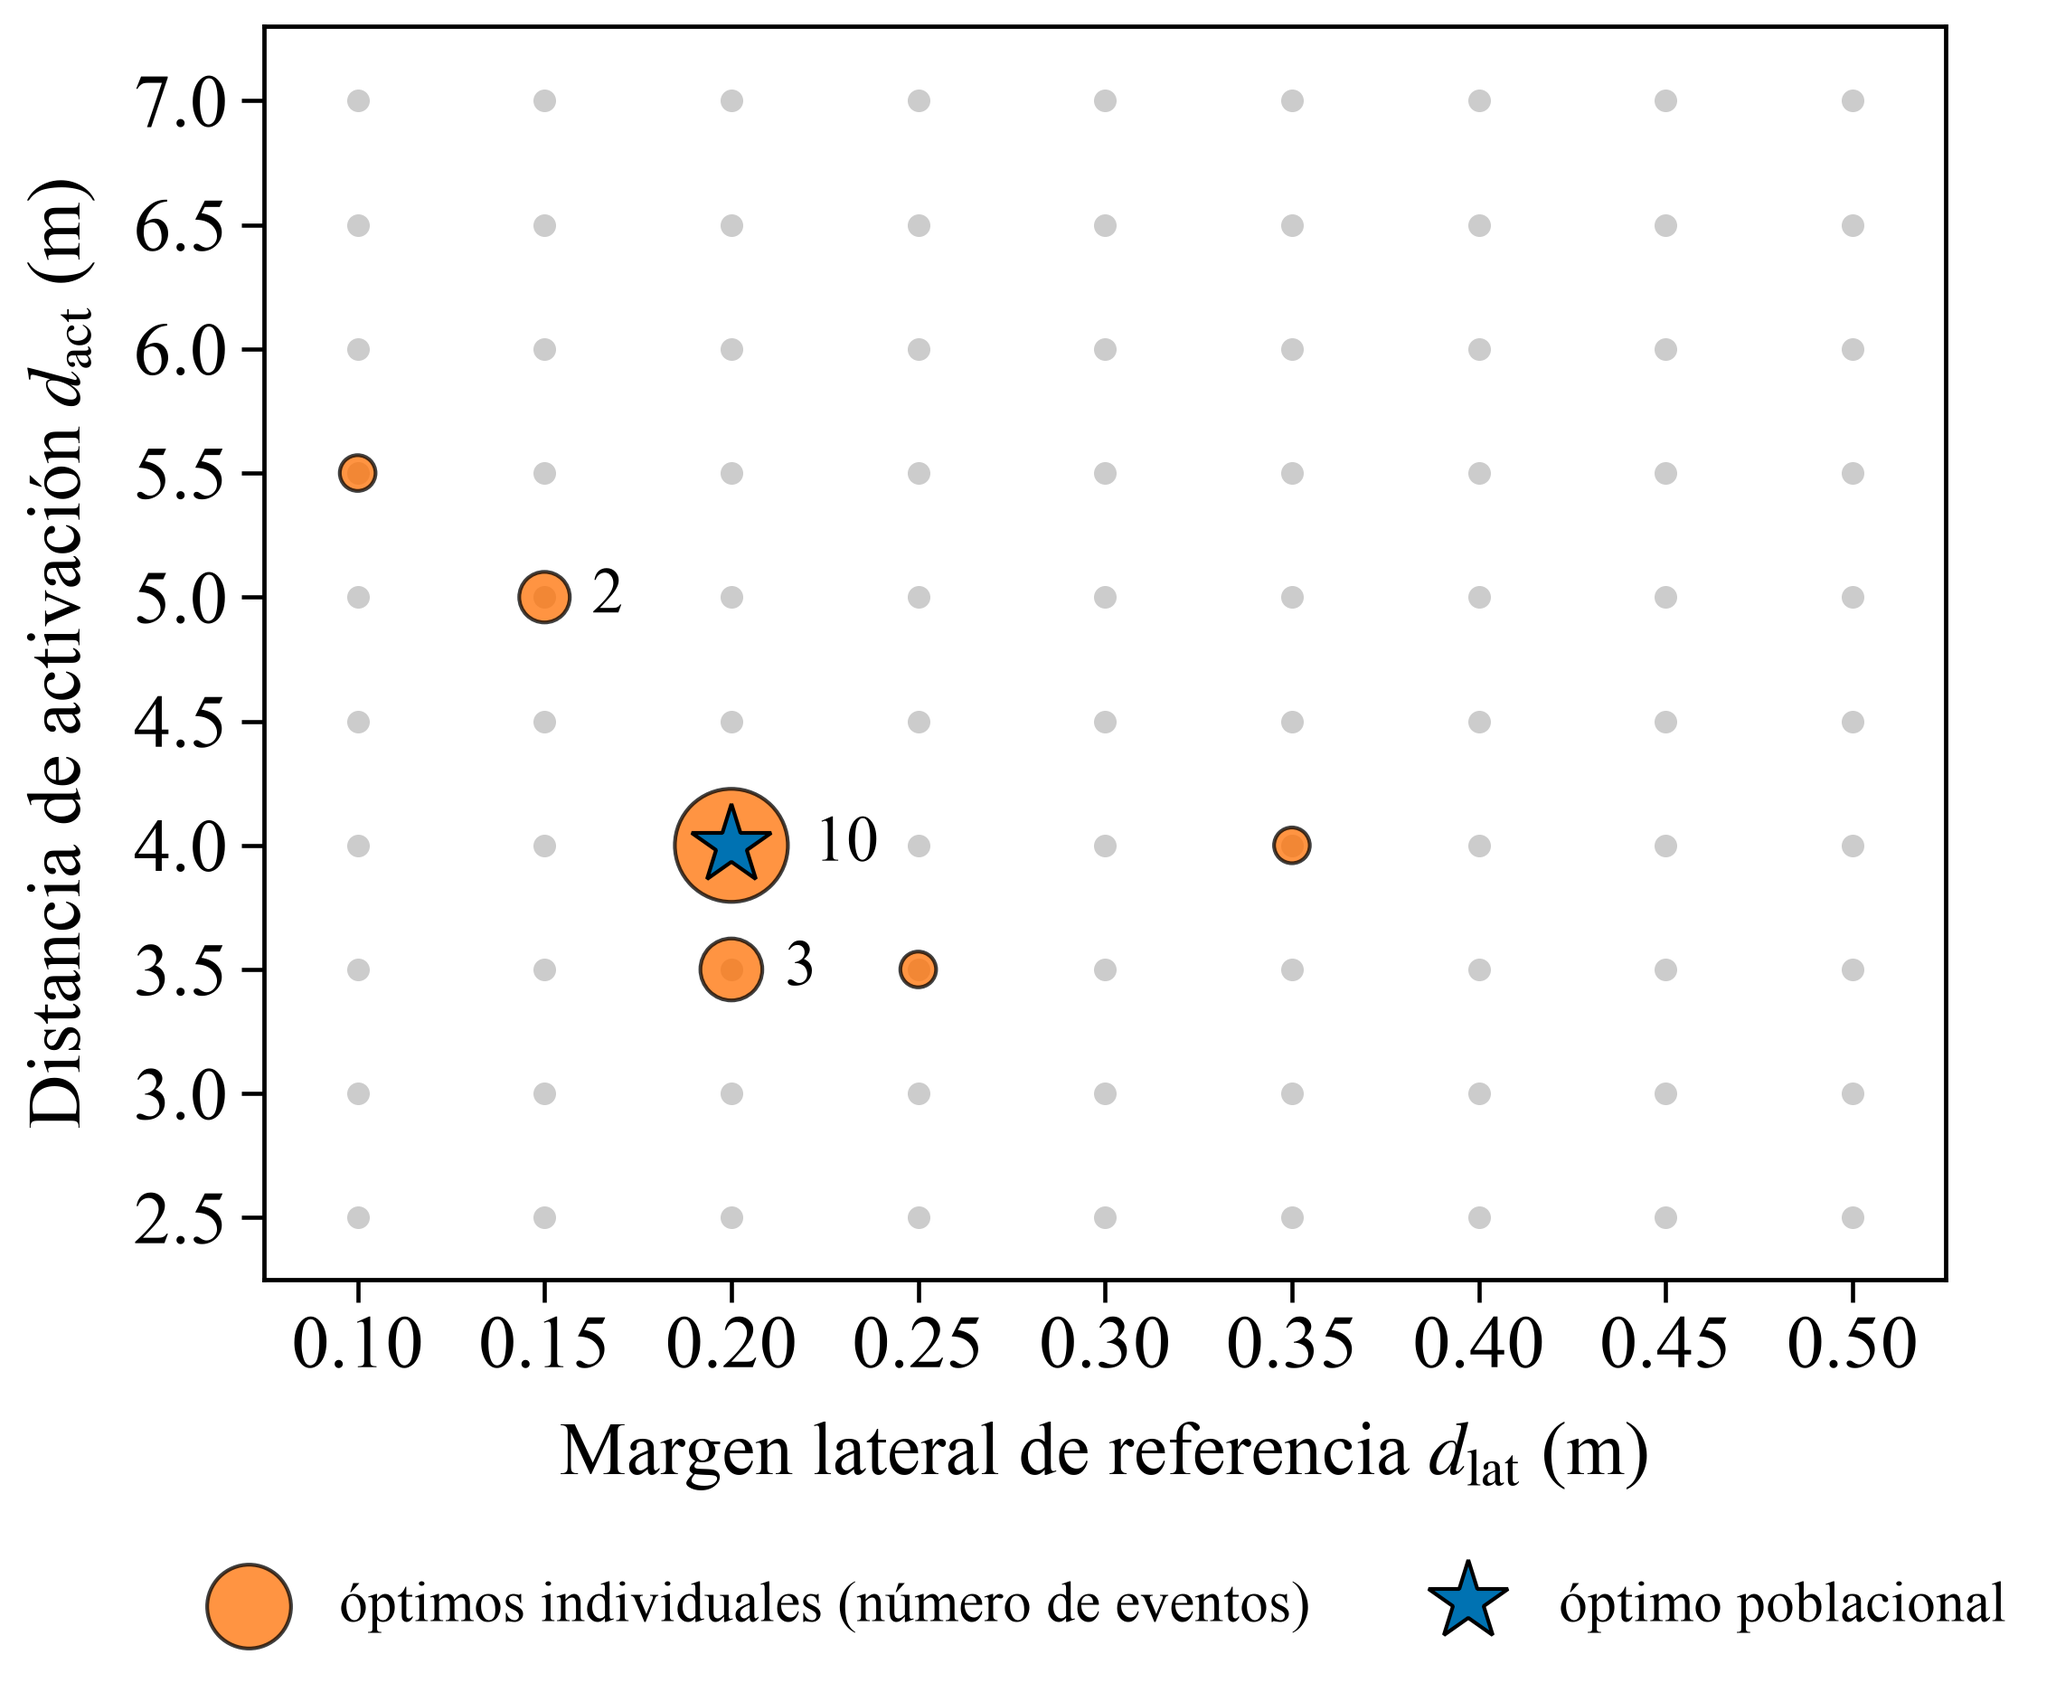
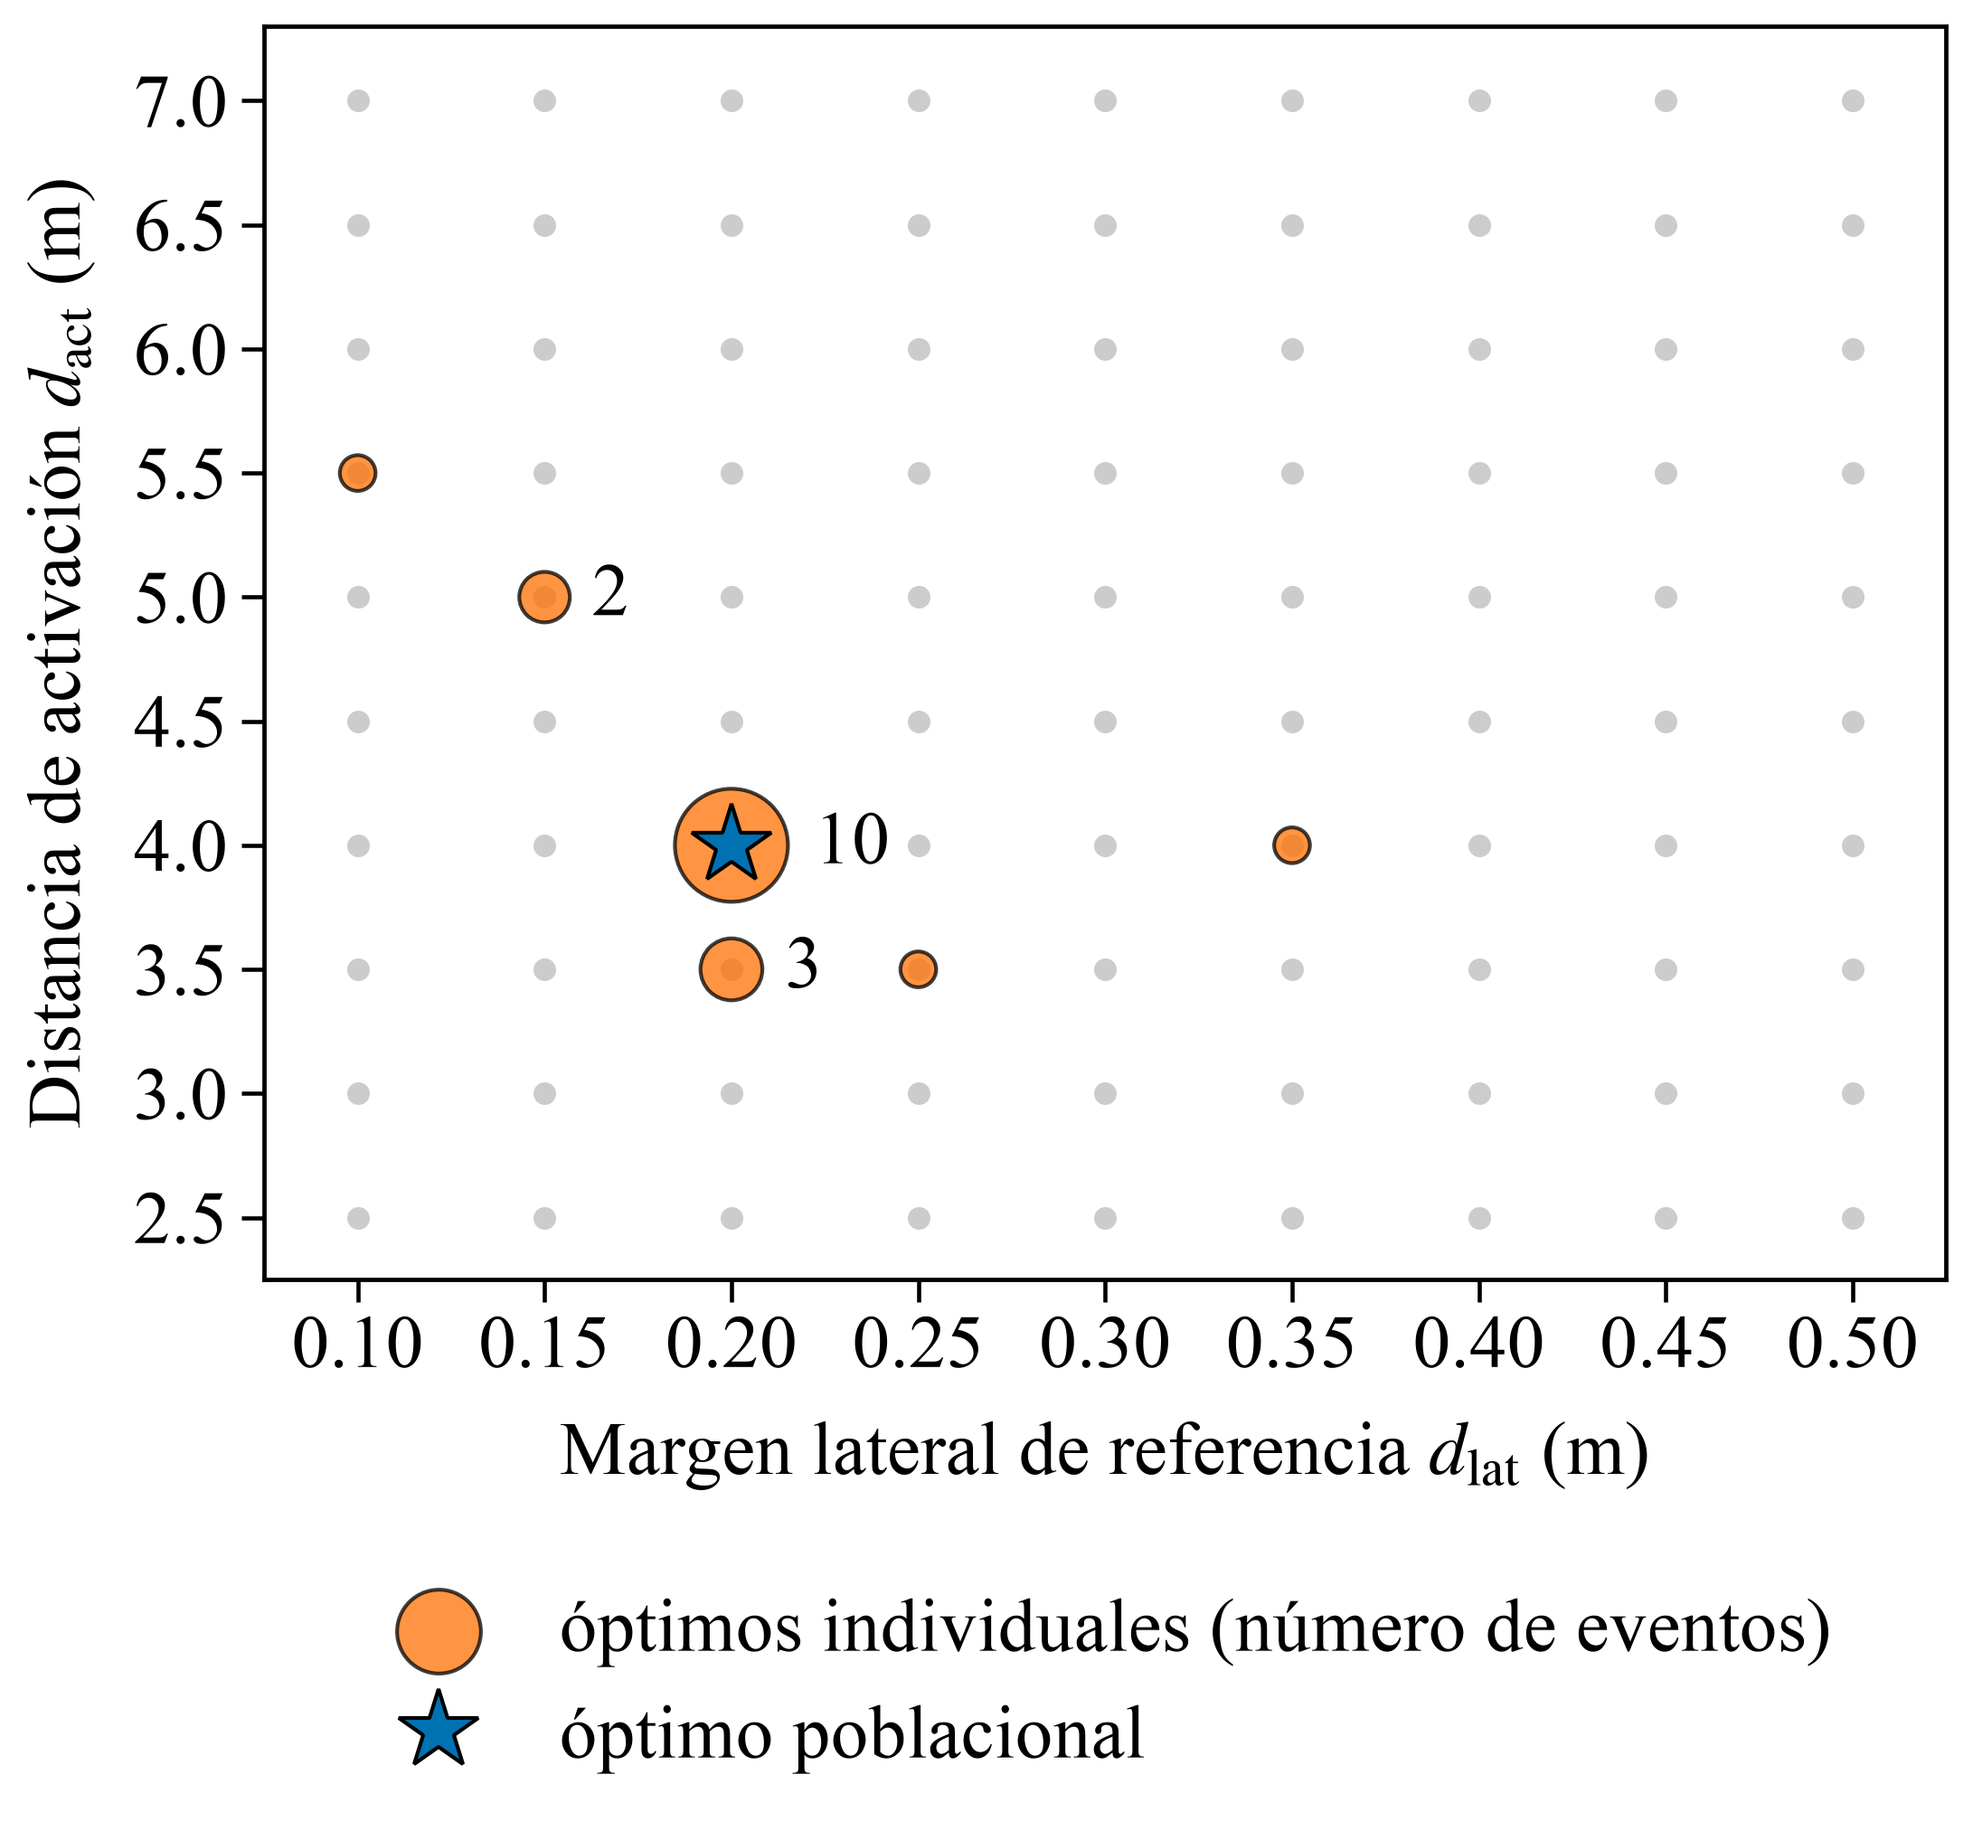
validacion cruzada better layout

diff --git a/scripts/plot_calibration.py b/scripts/plot_calibration.py
@@ -26,7 +26,6 @@ from matplotlib.colors import LogNorm  # noqa: E402
 from matplotlib.ticker import ScalarFormatter  # noqa: E402
 
 sys.path.insert(0, str(Path(__file__).resolve().parent / "lib"))
-from calib import format_pm  # noqa: E402
 from plot_style import BLUE, D_ACT_COLOR, D_LAT_COLOR, VERMILLION, apply_academic_style, style_axes  # noqa: E402
 
 REPO = Path(__file__).resolve().parents[1]
@@ -142,7 +141,7 @@ def plot_individual(metric: int, indir: Path, outdir: Path) -> None:
         if c > 1:
             radius_pt = np.sqrt(90 * c / np.pi)
             ax.annotate(str(c), (x, y), textcoords="offset points", xytext=(radius_pt + 5, 0), ha="left",
-                        va="center", fontsize=17, zorder=4)
+                        va="center", fontsize=20, zorder=4)
     ax.plot(r_opt, a_opt, marker="*", markersize=22, color=BLUE, markeredgecolor="black", linestyle="none",
             label="óptimo poblacional", zorder=3)
     ax.set_xticks(np.unique(grid[:, 0]))
@@ -152,7 +151,7 @@ def plot_individual(metric: int, indir: Path, outdir: Path) -> None:
     ax.set_xlim(grid[:, 0].min() - pad_x, grid[:, 0].max() + pad_x)
     ax.set_ylim(grid[:, 1].min() - pad_y, grid[:, 1].max() + 1.2 * pad_y)
     style_axes(ax, XLABEL, YLABEL)
-    ax.legend(loc="upper center", bbox_to_anchor=(0.5, -0.2), ncol=2, fontsize=15, frameon=False)
+    ax.legend(loc="upper center", bbox_to_anchor=(0.5, -0.2), ncol=1, fontsize=20, frameon=False)  # 20 pt: guía 1.8
     save(fig, outdir / f"E{metric}_optimos_individuales.png")
 
     # per-event errors, population vs individual parameters
@@ -164,9 +163,9 @@ def plot_individual(metric: int, indir: Path, outdir: Path) -> None:
     ax.axhline(E_pop.mean(), color=BLUE, linestyle="--", linewidth=1.5, label="promedio poblacional")
     ax.axhline(E_ind.mean(), color=VERMILLION, linestyle="--", linewidth=1.5, label="promedio individual")
     ax.set_xticks(x)
-    ax.set_xticklabels([str(p) for p in pruebas], fontsize=15)
+    ax.set_xticklabels([str(p) for p in pruebas])
     style_axes(ax, "Evento", elabel(metric, mean=False))
-    ax.legend(loc="upper center", bbox_to_anchor=(0.5, -0.2), ncol=2, fontsize=15, frameon=False)
+    ax.legend(loc="upper center", bbox_to_anchor=(0.5, -0.2), ncol=2, fontsize=20, frameon=False)  # 20 pt: guía 1.8
     save(fig, outdir / f"E{metric}_error_por_evento.png")
 
 
@@ -179,30 +178,28 @@ def plot_crossval(metric: int, indir: Path, outdir: Path) -> None:
     E_tr = np.array([float(r[3]) for r in rows])
     E_va = np.array([float(r[4]) for r in rows])
 
-    # one point per set: mean over the partitions, error bar = sample sd between partitions, value written beside it.
+    # one point per set: mean over the partitions, error bar = sample sd between partitions; the values are written
+    # beside the figure on the slide, with their units (guía 1.7, 1.9).
     # Points, not bars: a bar has to start at zero and then the spread, which is the result, takes a sliver of the axis
     # (the partition index carries no information, so it is not an axis)
     order = int(np.floor(np.log10(E_pop)))  # same power of ten on the axis and in the written values
     order = order if order < -1 else 0
-    fig, ax = plt.subplots(figsize=(8, 6))
+    fig, ax = plt.subplots(figsize=(6.5, 5.6))  # small canvas: the 20 pt text stays readable at slide size (guía 1.8)
     for x, vals, color in ((0, E_tr, BLUE), (1, E_va, VERMILLION)):
         mean, sd = vals.mean(), vals.std(ddof=1)
         ax.errorbar(x, mean, yerr=sd, fmt="o", markersize=13, color=color, ecolor=color, capsize=9, capthick=2.2,
                     elinewidth=2.2, zorder=3)
-        value, error = format_pm(mean / 10**order, sd / 10**order)
-        ax.annotate(rf"${value} \pm {error}$", (x, mean), textcoords="offset points", xytext=(16, 0), ha="left",
-                    va="center", fontsize=18, zorder=4, bbox=dict(facecolor="white", edgecolor="none", pad=2.5))
     ax.axhline(E_pop, color="black", linestyle=":", linewidth=1.8, label="calibración poblacional (18 eventos)", zorder=1)
     ax.set_xticks([0, 1])
     ax.set_xticklabels(["Entrenamiento\n(13 eventos)", "Validación\n(5 eventos)"])
-    ax.set_xlim(-0.5, 1.75)
+    ax.set_xlim(-0.6, 1.6)
     ax.margins(y=0.12)
     if order:
         ax.ticklabel_format(axis="y", style="sci", scilimits=(order, order))
     else:
         ax.ticklabel_format(axis="y", style="plain")
-    style_axes(ax, "", rf"$\langle E^{{({metric})}}\rangle$ (m$^2$)")
-    ax.legend(loc="upper center", bbox_to_anchor=(0.5, -0.2), fontsize=15, ncol=2, frameon=False)
+    style_axes(ax, "Conjunto de eventos", f"Error medio, métrica {metric} (m$^2$)")  # words, not symbols (guía 1.8)
+    ax.legend(loc="upper center", bbox_to_anchor=(0.5, -0.32), fontsize=20, ncol=1, frameon=False)
     save(fig, outdir / f"E{metric}_validacion_cruzada.png")
 
 

diff --git a/docs/presentation/secciones/anexo.tex b/docs/presentation/secciones/anexo.tex
@@ -20,3 +20,26 @@
     \vv{e}_0 = \frac{\vv{x}^{\,temp}_i - \vv{r}_i}{|\vv{x}^{\,temp}_i - \vv{r}_i|}
   \]
 \end{frame}
+
+\begin{frame}{Anexo}
+  \framesubtitle{Validación cruzada: valores de error medio}
+  \centering
+  \renewcommand{\arraystretch}{1.5}
+  \begin{tabular}{lccc}
+    \hline
+    Métrica & Poblacional (m$^2$) & Entrenamiento (m$^2$) & Validación (m$^2$) \\
+    \hline
+    1: iguales tiempos & $0.384$ & $0.39 \pm 0.04$ & $0.4 \pm 0.1$ \\
+    2: punto más cercano & $2.05\ten{-2}$ & $(2.0 \pm 0.2)\ten{-2}$ & $(2.1 \pm 0.6)\ten{-2}$ \\
+    \hline
+  \end{tabular}
+
+  \vspace{16pt}
+  \begin{columns}
+    \begin{column}{0.62\textwidth}
+      \begin{parametros}
+        \item 20 particiones aleatorias: 13 eventos de entrenamiento, 5 de validación
+      \end{parametros}
+    \end{column}
+  \end{columns}
+\end{frame}
